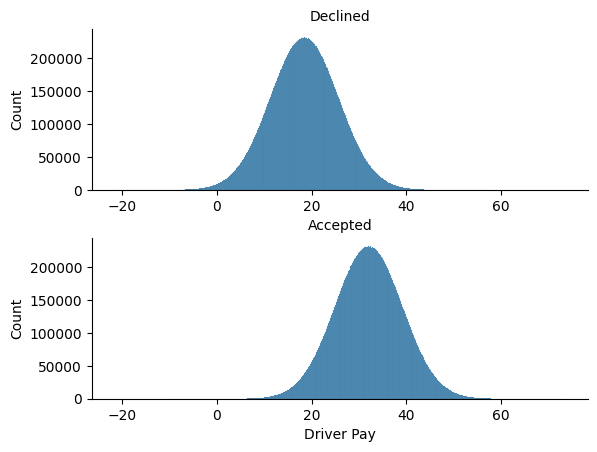
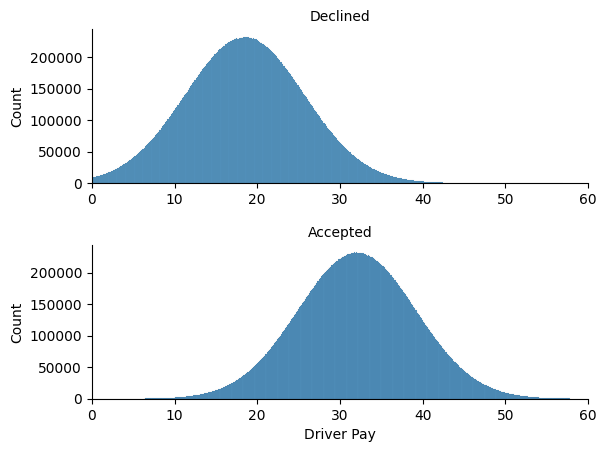
Replaced Data Generation figure

diff --git a/README.md b/README.md
@@ -38,7 +38,7 @@ As expected there is a reduction in the probability of declined rides as we incr
 
 **Data Generation**
 
-Given that both Decline and Accepted ride request both exhibit a Gaussian/Normal distribution we are able to generate further data points based on the characteristics (mean and standard deviation) of their respective distributions. We will therefore recreate these distributions with a sample size of 100.000.000 data points which will enable us to generate a more accurate estimate of which rides were accepted/declined for every driver offer range.
+Given that both Decline and Accepted ride request both exhibit a Gaussian/Normal distribution we are able to generate further data points based on the characteristics (mean and standard deviation) of their respective distributions. We will therefore recreate these distributions with a sample size of 100.000.000 data points per condition. This will enable us to generate a more accurate estimate of which rides were accepted/declined for every driver pay range. Our new data distributions are as follows:
 
 <img src="Images\Data_Generation.png" alt="drawing"/>
 
